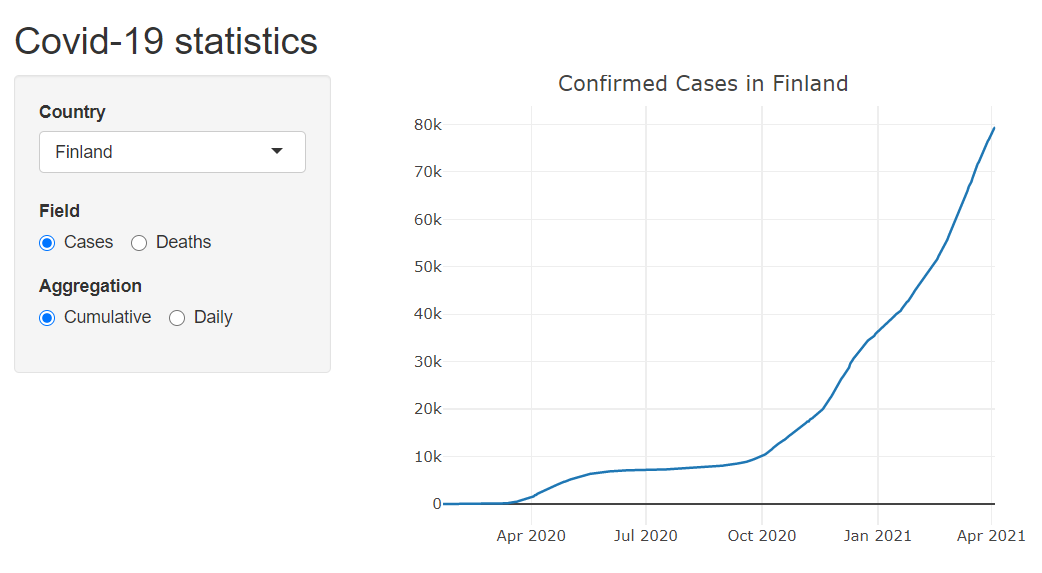
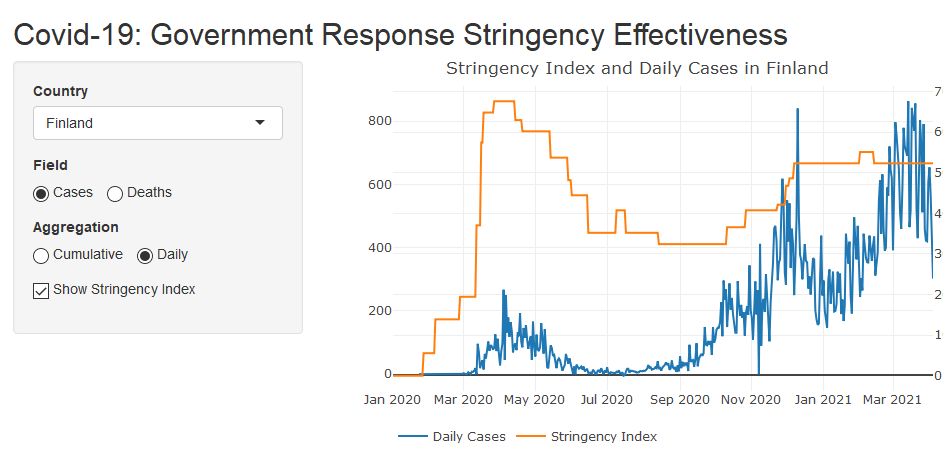
Added Stringency index, updated image and README file

diff --git a/README.md b/README.md
@@ -2,4 +2,10 @@
 
 https://marija-grj.shinyapps.io/shiny-assignment/
 
-Shiny app on basic Covid-19 statistics: daily/cumulative case/deaths for a selected country.
+Shiny app on COVID-19 Government Response Stringency Effectiveness based on OxCGRT dataset.
+
+```{r, echo=FALSE}
+url <- "https://github.com/marija-grj/Shiny-Application/blob/main/demo.png?raw=true"
+
+```
+![](`r url`)
